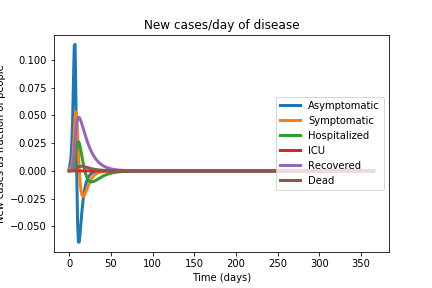
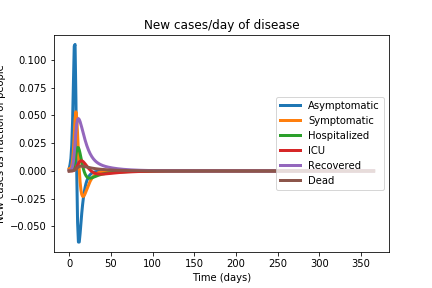
changed popmodel so that it works with an array instead of dict

Changed region(s): [[0.1505, 0.4062, 0.3611, 0.6562]]

diff --git a/function_lib.py b/function_lib.py
@@ -10,7 +10,7 @@ from scipy.integrate import solve_ivp
 import os
 import csv
 
-def populationModel(t, n, params):
+def populationModel(t, n, r, pop_info):
   """ Define the population model based on the different rates and initial conditions 
 
     Parameters
@@ -35,32 +35,29 @@ def populationModel(t, n, params):
   
 
   TP = SP + IP1 + IP2 + IP3 + IP4 + RP
-  cap_IC = params["n_beds"] / params["pop_size"] # Determines how many IC beds are available.
+  cap_IC = pop_info[0] / pop_info[1] # Determines how many IC beds are available.
 
-  #TP = params["n0_susc"] + params["n0_inf1"] + params["n0_inf2"] + params["n0_inf3"] + params["n0_rec"] #total population
- 
-  R_inf1 = params["r_meeting1"] * params["r_infection1"] * (SP / TP) * IP1 #infection rate 1: chance they susceptible people meet asymptomatic patients ánd that they are infected
-  R_inf2 = params["r_meeting2"] * params["r_infection2"] * (SP / TP) * IP2 #infection rate 2: people are infected by symptomatic patients
-  R_inf3 = params["r_meeting3"] * params["r_infection3"] * (SP / TP) * (IP3) #infection rate 3: people are infected by hospitalized patients
-  R_inf4 = params["r_meeting4"] * params["r_infection4"] * (SP / TP) * (IP4) #infection rate 3: people are infected by ICU patients
-  r_d = params["r_d1"] + logistic(IP4, cap_IC) * params["r_d2"] * params["r_d1"]
+  R_inf1 = r[0] * r[4] * (SP / TP) * IP1 #infection rate 1: chance they susceptible people meet asymptomatic patients ánd that they are infected
+  R_inf2 = r[1] * r[5] * (SP / TP) * IP2 #infection rate 2: people are infected by symptomatic patients
+  R_inf3 = r[2] * r[6] * (SP / TP) * (IP3) #infection rate 3: people are infected by hospitalized patients
+  R_inf4 = r[3] * r[7] * (SP / TP) * (IP4) #infection rate 3: people are infected by ICU patients
+  r_d = r[10] + logistic(IP4, cap_IC) * r[11] * r[10]
+  
+  #R_inf1 = params["r_meeting1"] * params["r_infection1"] * (SP / TP) * IP1 #infection rate 1: chance they susceptible people meet asymptomatic patients ánd that they are infected
+  #R_inf2 = params["r_meeting2"] * params["r_infection2"] * (SP / TP) * IP2 #infection rate 2: people are infected by symptomatic patients
+  #R_inf3 = params["r_meeting3"] * params["r_infection3"] * (SP / TP) * (IP3) #infection rate 3: people are infected by hospitalized patients
+  #R_inf4 = params["r_meeting4"] * params["r_infection4"] * (SP / TP) * (IP4) #infection rate 3: people are infected by ICU patients
+  #r_d = params["r_d1"] + logistic(IP4, cap_IC) * params["r_d2"] * params["r_d1"]
   
   dn = np.empty(len(n)) #create an empty array to define the ODEs
-
-  # dn[0] = - R_inf1 - R_inf2 - R_inf3
-  # dn[1] = + R_inf1 + R_inf2 + R_inf3 - params["r_sym"] * IP1 - params["r_im1"] * IP1
-  # dn[2] = + params["r_sym"] * IP1 - params["r_hos"] * IP2 - params["r_im2"] * IP2  
-  # dn[3] = + params["r_hos"] * IP2 - params["r_im3"] *IP3 - r_d * IP3
-  # dn[4] = + params["r_im1"] * IP1 + params["r_im2"] * IP2 + params["r_im3"]* IP3
-  # dn[5] = + r_d * IP3
   
   # v2.3
   dn[0] = - R_inf1 - R_inf2 - R_inf3 - R_inf4
-  dn[1] = + R_inf1 + R_inf2 + R_inf3 + R_inf4 - params["r_sym"] * IP1 - params["r_im1"] * IP1
-  dn[2] = + params["r_sym"] * IP1 - params["r_hos"] * IP2 - params["r_im2"] * IP2 - r_d * IP2 
-  dn[3] = + params["r_hos"] * IP2 - params["r_im3"] * IP3 - r_d * IP3 + params["r_rehos"] * IP4 -params["r_ic"] * IP3
-  dn[4] = + params["r_ic"] * IP3 - params["r_rehos"] * IP4 -r_d * IP4;
-  dn[5] = + params["r_im1"] * IP1 + params["r_im2"] * IP2 + params["r_im3"]* IP3
+  dn[1] = + R_inf1 + R_inf2 + R_inf3 + R_inf4 - r[8] * IP1 - r[12] * IP1
+  dn[2] = + r[8] * IP1 - r[9] * IP2 - r[13] * IP2 - r_d * IP2 
+  dn[3] = + r[9] * IP2 - r[14] * IP3 - r_d * IP3 + r[16] * IP4 - r[15] * IP3
+  dn[4] = + r[15] * IP3 - r[16] * IP4 -r_d * IP4;
+  dn[5] = + r[12] * IP1 + r[13] * IP2 + r[14]* IP3
   dn[6] = + r_d * (IP2 + IP3 + IP4)
   
   return dn

diff --git a/infectionModel_v0.1.py b/infectionModel_v0.1.py
@@ -2,6 +2,7 @@
 import matplotlib.pyplot as plt
 import numpy as np 
 from scipy.integrate import solve_ivp
+from scipy.optimize import minimize
 import os
 from function_lib import *
 
@@ -13,9 +14,11 @@ colors = ['#299727ff', '#b6311cff', '#276ba2ff', '#424242ff']
 
 
 #Declaration of the input variables
-params = file_to_dict("parameters_new.txt")                        
-n0 = [params["n0_susc"], params["n0_inf1"], params["n0_inf2"],
-      params["n0_inf3"], params["n0_inf4"], params["n0_rec"], params["n0_dead"]]  #initial conditions: fraction of the population that is in a certain state. 
+params = file_to_dict("iceland_parameters.txt")
+vals = np.fromiter(params.values(), dtype=float)
+r0 = vals[0:17] #extract the rates
+n0 = vals[17:24]
+pop_info = vals[24:26]
 
 #creating the time array
 tstart = 0
@@ -24,7 +27,7 @@ tspan = (tstart, tend)
 t = np.linspace(tstart, tend, tend * 100)
 
 #solving the system of ODEs 
-sol = solve_ivp(populationModel, tspan, n0, args=[ params], dense_output=True)
+sol = solve_ivp(populationModel, tspan, n0, args=[r0,pop_info], dense_output=True)
 print(sol.message)
 y = sol.sol(t)
 
@@ -53,7 +56,8 @@ y_shift[:,1:] = y_perday[1:,0:tend-1:1] #Putting it in the new matrix with posit
 delta_y = (y_perday[1:,:] - y_shift)    #calculating the difference in cases for each category between consecutive days
 t_days = np.linspace(tstart, tend, tend)#having a correct time array for plotting purposes
 
-model_mse = mse_calculator(y_perday,iceland_data)
+#model_mse = mse_calculator(y_perday,iceland_data)
+rates_opt = minimize(mse_calculator(y_perday,iceland_data),r0)
 
 #calculating the error between 
 #plotting the amount of new cases per day per group
